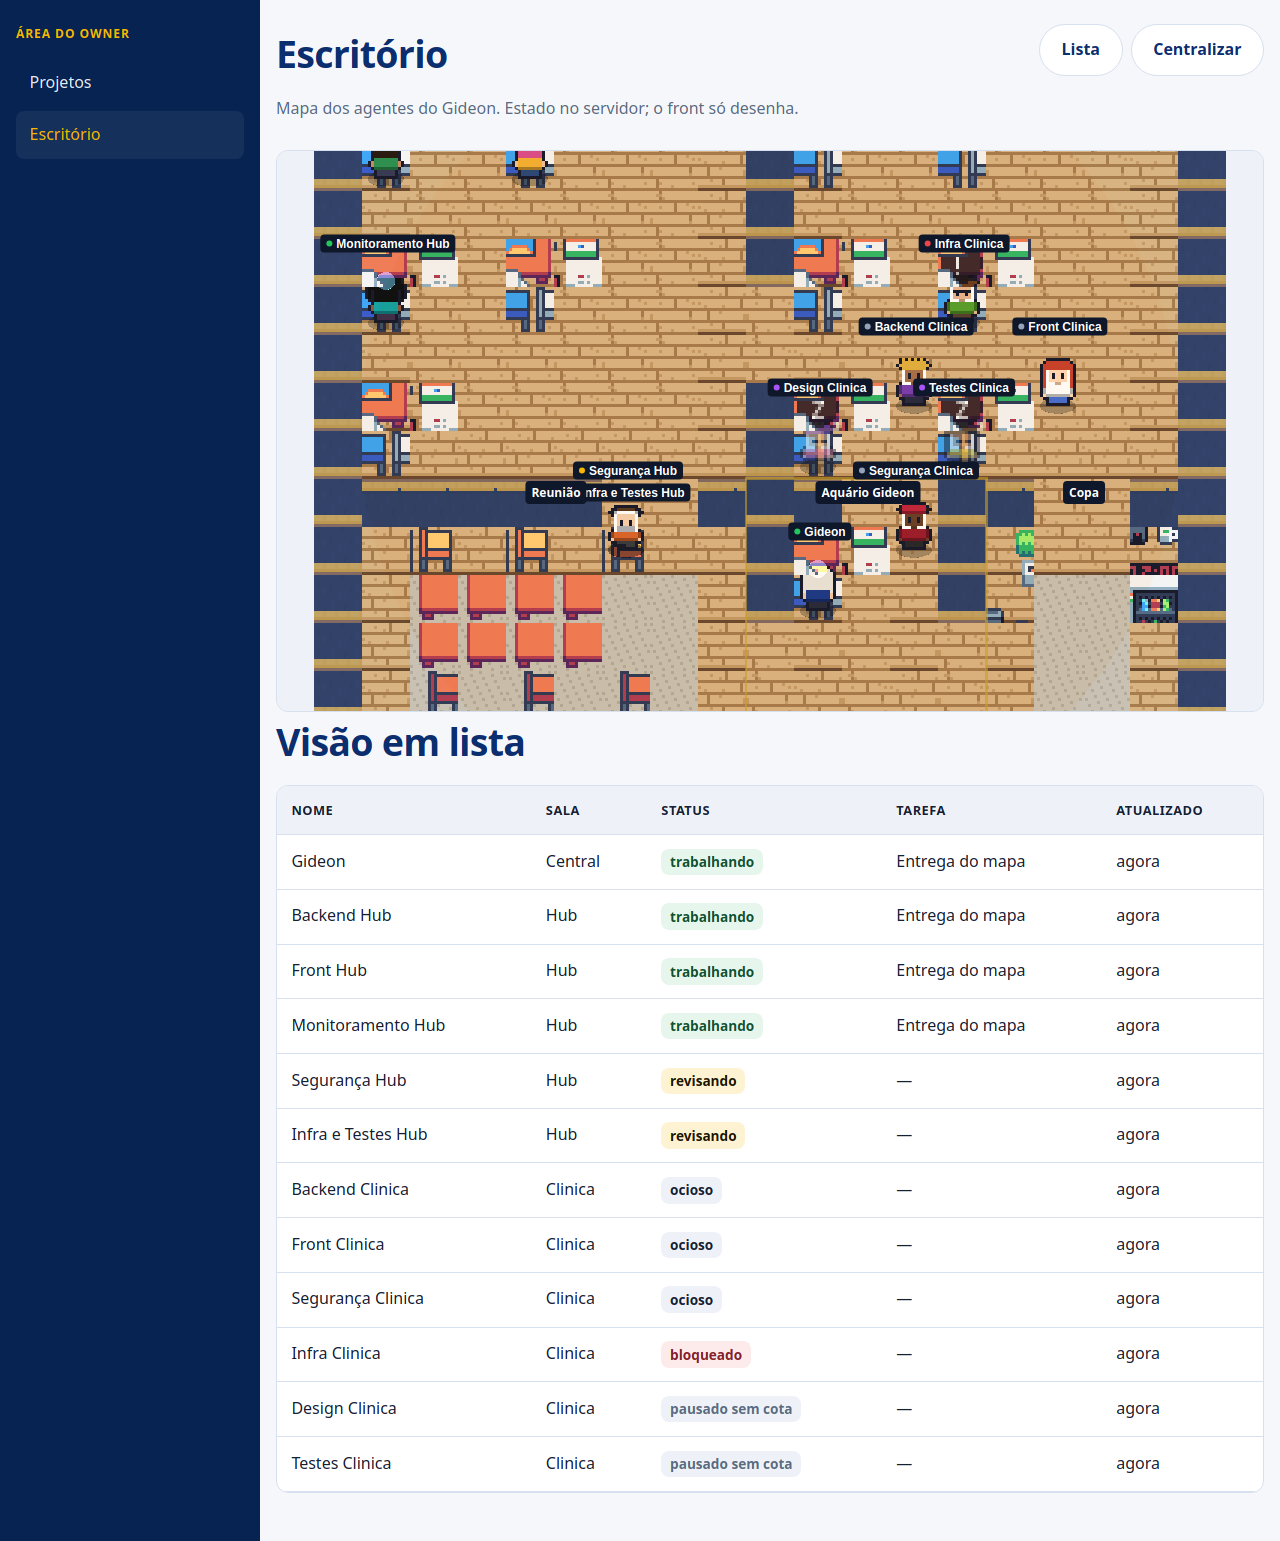
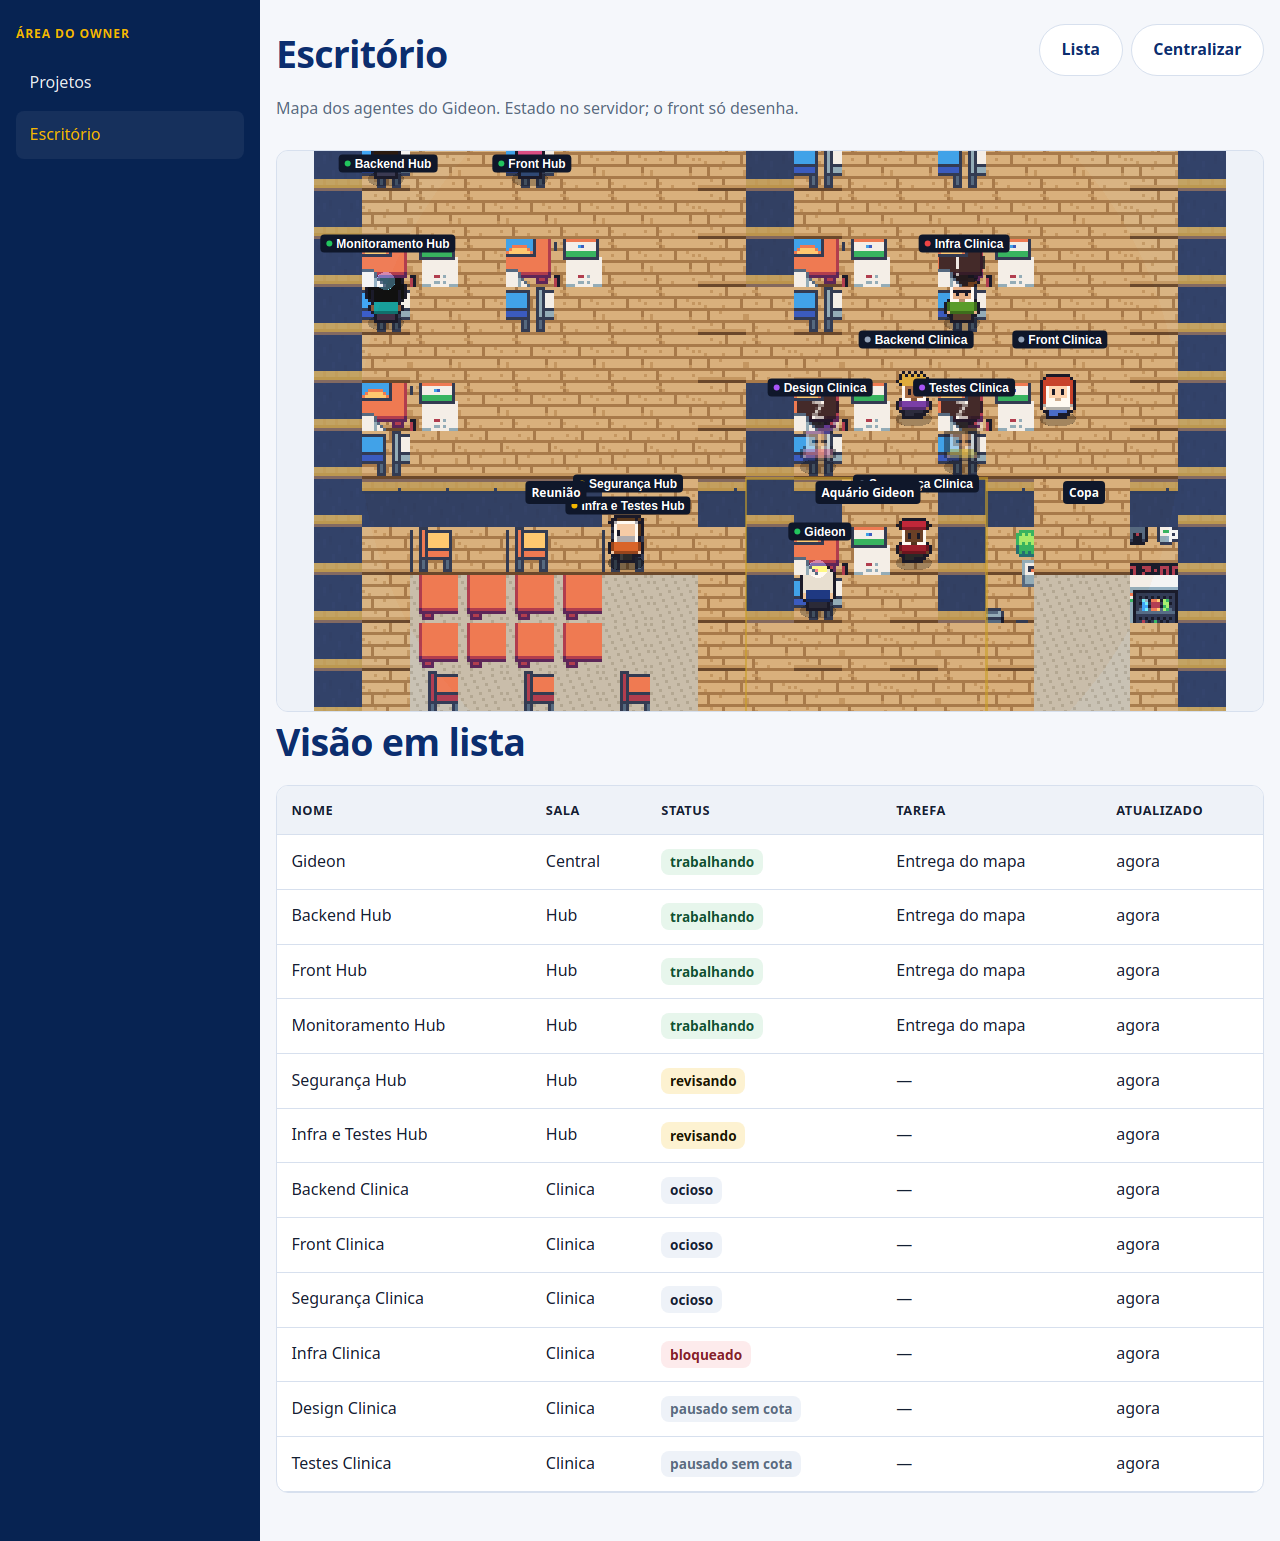
fix(escritorio): data-debug sem CSP e plaquinhas no celular
O script inline era bloqueado por script-src 'self'. O Development agora
marca data-debug no mapa e o boot só então expõe __escritorio.
Em 390px os agentes visíveis voltam a ter plaquinha dentro do canvas.

diff --git a/src/PedroHub.Web/wwwroot/js/escritorio/scene-office.js b/src/PedroHub.Web/wwwroot/js/escritorio/scene-office.js
@@ -737,14 +737,11 @@
 
     _updateNameTags() {
       const cam = this.cameras.main;
-      const isMobile = window.innerWidth < 720;
       const tags = [];
       for (const [slug, entry] of this.agentSprites) {
-        const show = !isMobile || slug === this.selectedSlug;
         const el = this._ensureNameTagEl(slug, entry.agent?.nome, entry.agent?.status);
         if (!el) continue;
-        el.style.display = show ? "" : "none";
-        if (!show) continue;
+        el.style.display = "";
         el.classList.toggle("is-selected", slug === this.selectedSlug);
         const sx = (entry.spr.x - cam.worldView.x) * cam.zoom;
         const sy = (entry.spr.y - 20 - cam.worldView.y) * cam.zoom;
@@ -752,13 +749,13 @@
         const footY = (entry.spr.y - cam.worldView.y) * cam.zoom;
         el.dataset.footX = String(Math.round(footX));
         el.dataset.footY = String(Math.round(footY));
-        tags.push({ id: slug, x: sx, y: sy, el });
+        tags.push({ id: slug, x: sx, y: sy, footX, footY, el });
       }
       const canvasW = cam.width;
       const canvasH = cam.height;
       const visible = [];
       for (const t of tags) {
-        const spriteInView = t.x >= -8 && t.x <= canvasW + 8 && t.y >= -8 && t.y <= canvasH + 8;
+        const spriteInView = t.footX >= 0 && t.footX <= canvasW && t.footY >= 0 && t.footY <= canvasH;
         if (!spriteInView) {
           t.el.style.display = "none";
           continue;

diff --git a/src/PedroHub.Web/wwwroot/js/escritorio/boot.js b/src/PedroHub.Web/wwwroot/js/escritorio/boot.js
@@ -410,8 +410,9 @@
     if (!scene) panel.open(a, {});
   }
 
-  // Gancho de teste só no Development (a view define window.__escritorioDebug).
-  if (window.__escritorioDebug) {
+  // Gancho só com data-debug no mapa (a view emite o atributo no Development).
+  // Sem script inline: a CSP script-src 'self' bloqueia isso.
+  if (gameHost && gameHost.getAttribute("data-debug") === "true") {
     window.__escritorioRenderLista = renderLista;
     window.__escritorioEscapeHtml = escapeHtml;
     window.__escritorio = {
